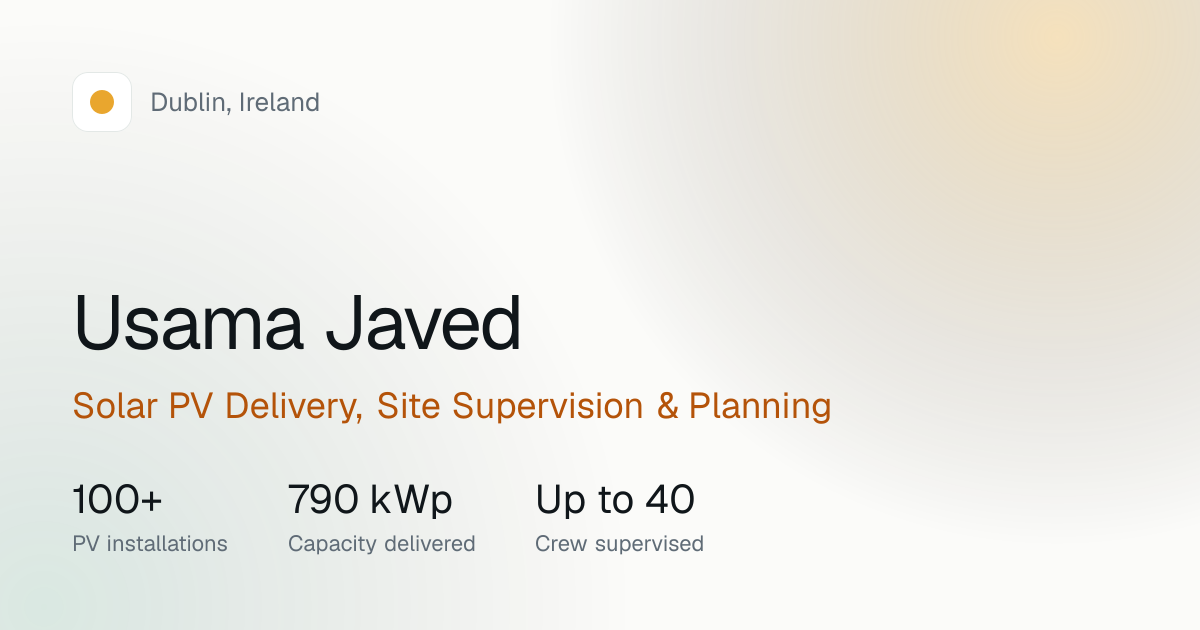
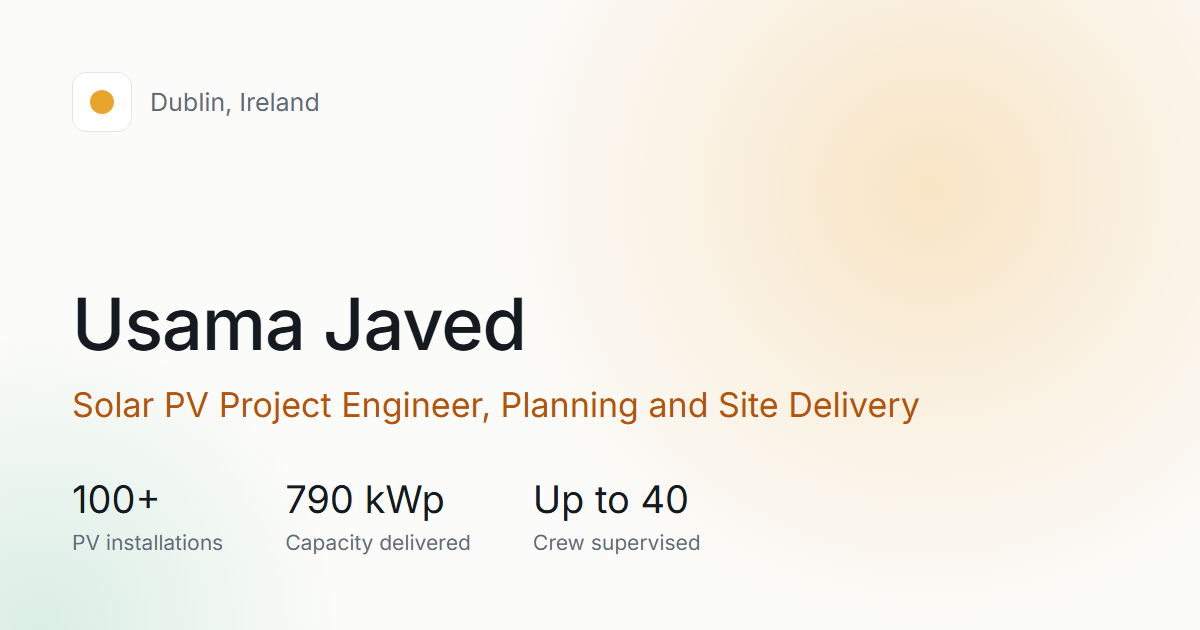
New headline: Solar PV Project Engineer, Planning and Site Delivery
Hero shows it on two lines so the end stays off the bright sky; link
preview image and alt text regenerated with the same design.

diff --git a/src/components/HeroBold.tsx b/src/components/HeroBold.tsx
@@ -8,6 +8,10 @@ import { fadeUp, staggerContainer } from "@/lib/motion";
 // The first sentence of the lede: the second one repeats what the sections below show.
 const intro = profile.lede.split(". ")[0] + ".";
 
+// Two lines, so the end of the headline stays on the dark side of the photo instead of the bright sky.
+const [headlineFirst, ...headlineParts] = profile.headline.split(", ");
+const headlineRest = headlineParts.join(", ");
+
 // Full-width site photo behind the name, with the four headline figures on a glass strip at the bottom.
 export function HeroBold() {
   return (
@@ -62,7 +66,13 @@ export function HeroBold() {
           className="mt-4 font-bold leading-tight"
           style={{ fontSize: "clamp(22px, 2.6vw, 34px)", color: "#f2a93b", fontFamily: "var(--font-display)" }}
         >
-          {profile.headline}
+          {headlineFirst}
+          {headlineRest && (
+            <>
+              ,<br />
+              {headlineRest}
+            </>
+          )}
         </motion.p>
         <motion.p variants={fadeUp} className="mt-5 max-w-[54ch] text-[17px] sm:text-[18px] leading-relaxed text-white/80">
           {intro}

diff --git a/src/lib/data.ts b/src/lib/data.ts
@@ -1,6 +1,6 @@
 export const profile = {
   name: "Usama Javed",
-  headline: "Solar PV Delivery, Site Supervision & Planning",
+  headline: "Solar PV Project Engineer, Planning and Site Delivery",
   location: "Dublin, Ireland",
   city: "Dublin, Ireland",
   phone: "+353 85 773 5337",
